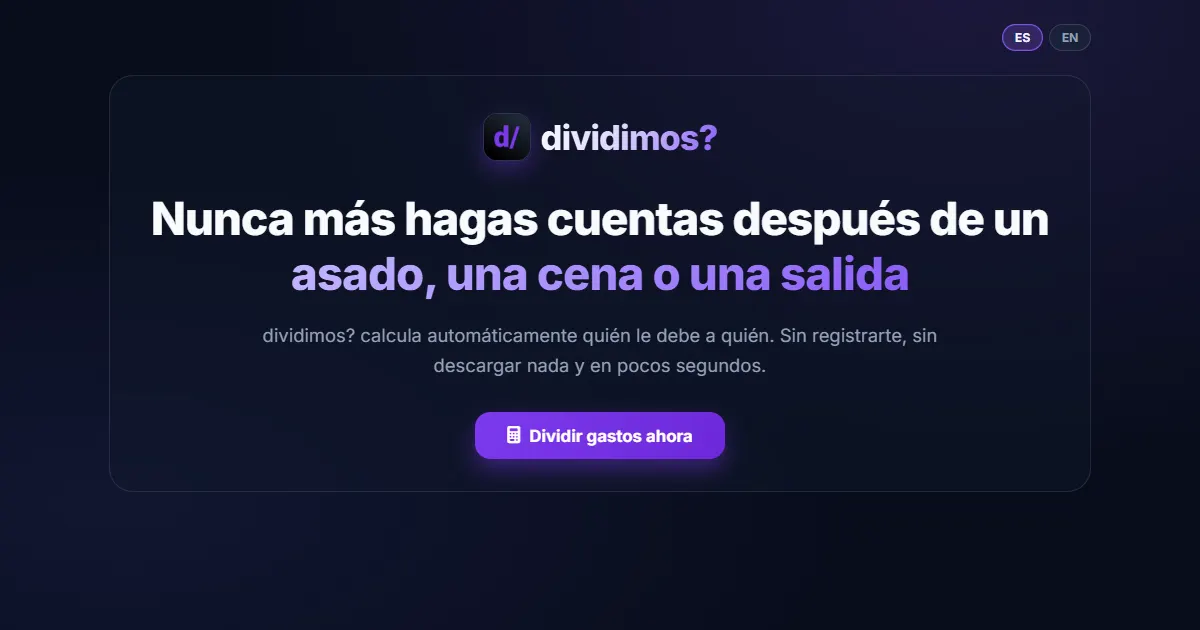
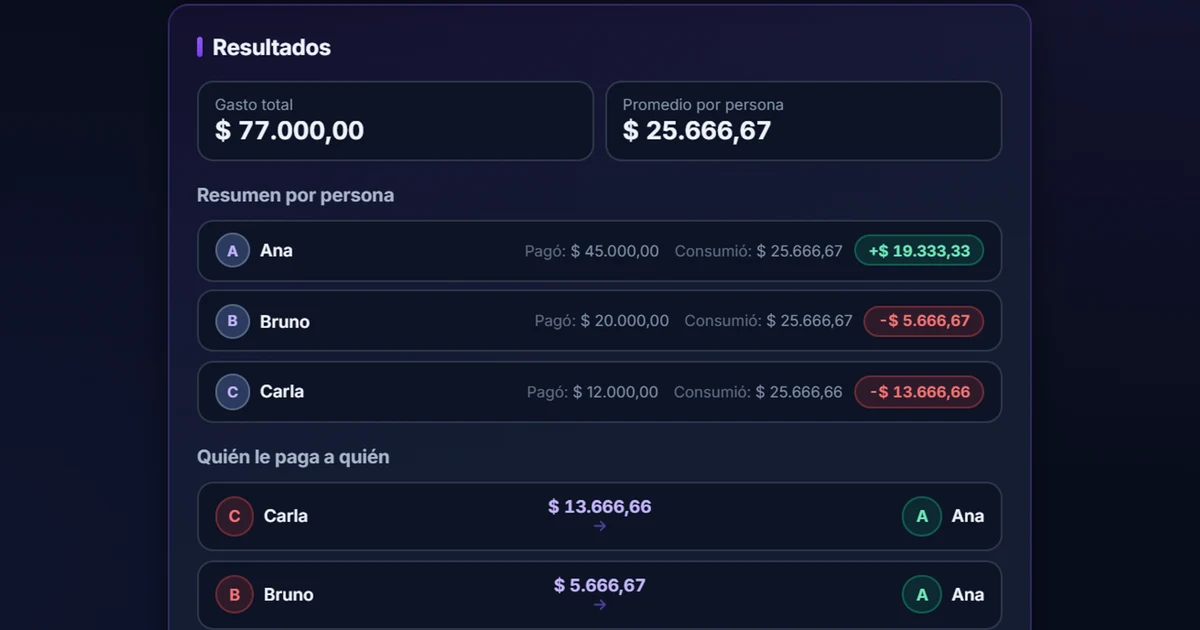
content: new dividimos? screenshot showing the results of a shared bill

diff --git a/js/i18n/es.js b/js/i18n/es.js
@@ -29,7 +29,7 @@ export const ES = {
   'Open Dollar Tracker': 'Abrir Dollar Tracker',
   'Dollar Tracker: dashboard with live exchange rates for Argentina': 'Dollar Tracker: panel con cotizaciones en vivo de Argentina',
   'Open dividimos?': 'Abrir dividimos?',
-  'dividimos?: app to split group expenses': 'dividimos?: app para dividir gastos grupales',
+  'dividimos?: result of a shared bill, with the balance per person and who pays whom': 'dividimos?: resultado de una cuenta compartida, con el saldo de cada persona y quién le paga a quién',
   'Copy email address': 'Copiar dirección de email',
   'Main links': 'Enlaces principales',
   '@benjaespina_ on Instagram, personal account': '@benjaespina_ en Instagram, cuenta personal',

diff --git a/index.html b/index.html
@@ -242,7 +242,7 @@
               src="assets/dividimos-1200.webp"
               srcset="assets/dividimos-600.webp 600w, assets/dividimos-1200.webp 1200w"
               sizes="(min-width: 900px) 600px, 100vw"
-              alt="dividimos?: app to split group expenses"
+              alt="dividimos?: result of a shared bill, with the balance per person and who pays whom"
               width="1200" height="630" loading="lazy" decoding="async" />
           </a>
           <div class="case-body">
